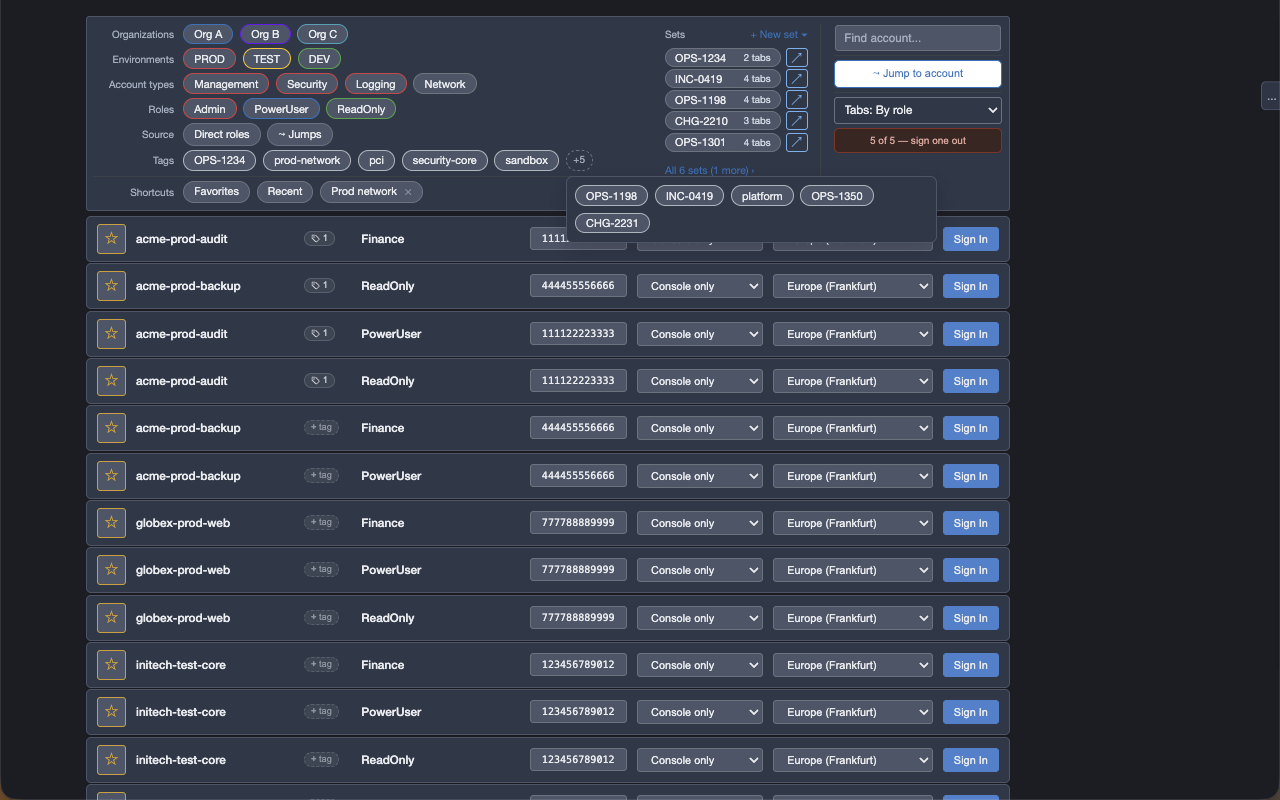
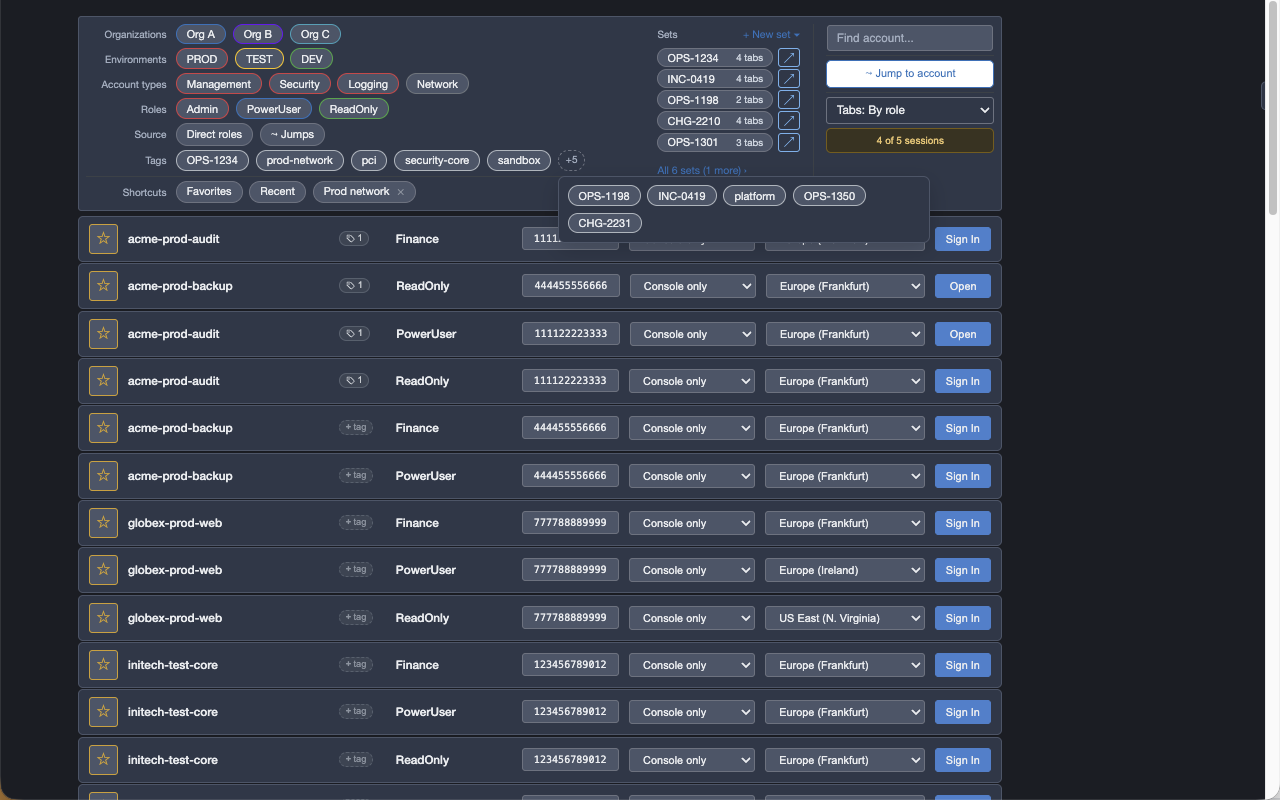
Reshoot store screenshots for 1.8.0
Open on signed-in rows, the Open-set dialog when a set won't fit (replaces
Edit set), the sessions panel with a jump as one row. The staging script
now pins its rewrites against the picker's own refreshes, shows a frozen
copy of the sessions list, and re-checks for leaks right before capture.

diff --git a/store-assets/shots/stage.js b/store-assets/shots/stage.js
@@ -11,7 +11,15 @@
   //   edit      Edit set dialog for the first set
   //   sessions  the Active AWS sessions panel (needs live sessions)
   //   dark      dark theme with the Tags row's +N pop-out open
+  //   room      the Open-set dialog when a set won't fit ("room:N" opens the
+  //             Nth set in the column, default 0) — needs live sessions and a
+  //             set that needs more of them than are free
   var scene = typeof SCENE === "string" ? SCENE : "main";
+  var roomSet = 0;
+  if (/^room(:\d+)?$/.test(scene)) {
+    roomSet = Number((scene.split(":")[1]) || 0);
+    scene = "room";
+  }
 
   var IDS = ["111122223333", "444455556666", "777788889999", "123456789012",
              "222233334444", "555566667777", "888899990000", "333344445555",
@@ -28,15 +36,40 @@
   var SETS = ["OPS-1234", "INC-0419", "OPS-1198", "CHG-2210", "OPS-1301",
               "INC-0442", "CHG-2231", "OPS-1350"];
   var SHORTCUTS = ["Prod network", "PCI accounts", "Sandboxes"];
+  var LABELS = ["audit-review", "INC-0419 triage", "billing-check", "net-debug"];
   var VIA = "via Acme hub · max 1 h";
   var ROLE_POOL = Object.keys(ROLES).map(function (k) { return ROLES[k]; })
     .concat(["Jump", "Hub"]);
 
   // ---- open the scene's UI first, so everything it shows gets rewritten ----
-  document.querySelectorAll('[id$="_modal"]').forEach(function (el) { el.remove(); });
+  // The Open-set dialog is answered, not removed: removing it would leave the
+  // picker waiting on it, and no other set would open until a reload. The
+  // room scene keeps it (the second pass rewrites what the first opened).
+  document.querySelectorAll('[id$="_modal"]').forEach(function (el) {
+    if (el.id === "tm_set_open_modal") {
+      if (scene !== "room") {
+        var cancel = el.querySelector('[data-action="cancel"]');
+        if (cancel) cancel.click(); else el.remove();
+      }
+      return;
+    }
+    el.remove();
+  });
+  document.querySelectorAll("#tm_toasts, .tm_toast").forEach(function (el) { el.remove(); });
   var pop = document.getElementById("tm_sessions_popover");
   if (scene === "dark") document.body.classList.add("tm_theme_dark");
   else document.body.classList.remove("tm_theme_dark");
+
+  // ---- Open / Sign In ----
+  // The extension decides a row's "Open" from the row's VISIBLE account id
+  // and role, so once those are rewritten its next refresh (bringing the
+  // window forward, a console tab changing) would flip every Open back to
+  // Sign In. Record each button's label the first time it is seen with real
+  // text, and pin it on every pass.
+  document.querySelectorAll("#tm_role_list .tm_signin_button").forEach(function (b) {
+    if (!b.dataset.stageLabel) b.dataset.stageLabel = b.textContent;
+    if (b.textContent !== b.dataset.stageLabel) b.textContent = b.dataset.stageLabel;
+  });
 
   // ---- account ids / names / roles ----
   var idMap = {}, nameMap = {}, n = 0;
@@ -57,10 +90,20 @@
     var a = acct(el);
     if (a) el.textContent = idMap[a];
   });
+  // A name that isn't the bare id (an AWS alias, an Account Names entry, a
+  // jump destination's name) also shows in the Open-set dialog and the
+  // sessions panel; remember each one so the text pass below swaps it too.
+  var nameSwap = {};
   document.querySelectorAll(".tm_account_name").forEach(function (el) {
     var a = acct(el);
-    if (a) el.textContent = nameMap[a];
+    if (!a) return;
+    if (!el.dataset.realName) el.dataset.realName = el.textContent.replace(/^\s*⤳\s*/, "").replace(/\s+/g, " ").trim();
+    [el.dataset.realName, el.getAttribute("data-aws-name") || ""].forEach(function (real) {
+      if (real && real.length >= 3 && !/^\d{12}$/.test(real)) nameSwap[real] = nameMap[a];
+    });
+    el.textContent = nameMap[a];
   });
+  var swapKeys = Object.keys(nameSwap).sort(function (x, y) { return y.length - x.length; });
   function mapRole(t) {
     t = (t || "").trim();
     if (ROLES[t]) return ROLES[t];
@@ -141,6 +184,11 @@
     var cp = document.getElementById("tm_chip_pop");
     if (cp) document.dispatchEvent(new KeyboardEvent("keydown", { key: "Escape", bubbles: true }));
   }
+  if (scene === "room" && !document.getElementById("tm_set_open_modal")) {
+    var opens = document.querySelectorAll("#tm_sets_list .tm_set_open, .tm_set_line .tm_set_open");
+    var ob = opens[Math.min(roomSet, opens.length - 1)];
+    if (ob) ob.click();
+  }
   if (scene === "sessions") {
     var pill = document.getElementById("tm_sessions_pill");
     if (pill && !(pop && pop.offsetParent)) pill.click();
@@ -163,6 +211,12 @@
     idleBtn.style.setProperty("display", "inline-block", "important");
   }
 
+  // ---- sessions panel: demo labels ----
+  document.querySelectorAll("#tm_sessions_rows .tm_sess_tr").forEach(function (tr, i) {
+    var lab = tr.children[0];
+    if (lab && lab.textContent.trim() !== "—") lab.textContent = LABELS[i % LABELS.length];
+  });
+
   // ---- generic pass: any real id / CH role / set name left in text or options ----
   // AWS service names must not appear in a store screenshot (flagged on an
   // earlier submission); a saved page on one becomes the plain console.
@@ -175,9 +229,17 @@
     // set named after an account must match before that id is rewritten.
     var t = out.trim();
     if (inSetUI && setMap[t]) return out.replace(t, setMap[t]);
-    var m = inSetUI && t.match(/^(Edit set · |Set: )(.+)$/);
+    var m = inSetUI && t.match(/^(Edit set · |Set: |Open set · )(.+)$/);
     if (m && setMap[m[2]]) return out.replace(m[2], setMap[m[2]]);
+    // Inside a sentence ("<set> needs 3 new sessions …"): only names with a
+    // letter in them, so a set called "111111" can't touch digits elsewhere.
+    if (inSetUI) {
+      Object.keys(setMap).filter(function (real) { return /[A-Za-z]/.test(real) && real.length >= 4; })
+        .sort(function (x, y) { return y.length - x.length; })
+        .forEach(function (real) { out = out.split(real).join(setMap[real]); });
+    }
     realIds.forEach(function (id) { out = out.split(id).join(idMap[id]); });
+    swapKeys.forEach(function (real) { out = out.split(real).join(nameSwap[real]); });
     out = out.replace(/costmanagement\/home[^\s]*/gi, "console/home?region=us-east-1");
     out = out.replace(SERVICE_RE, function (w) { return w[0] === w[0].toUpperCase() ? "Console" : "console"; });
     out = out.replace(/\bCH([A-Z][A-Za-z]+)\b/g, function (_, r) { return mapRole("CH" + r); });
@@ -197,6 +259,13 @@
     var v = scrub(o.textContent, false);
     if (v !== o.textContent) o.textContent = v;
   });
+  // A row whose remembered service got scrubbed would read a bare "Console";
+  // show it on "Console only" instead (display only: no change event, so
+  // nothing is saved).
+  document.querySelectorAll(".tm_service_dropdown").forEach(function (sel) {
+    var o = sel.options[sel.selectedIndex];
+    if (o && o.textContent.trim() === "Console") sel.selectedIndex = 0;
+  });
   document.querySelectorAll(".tm_setm_row[data-set-id]").forEach(function (r) {
     var nm = r.querySelector(".tm_setm_name");
     var demo = setById[r.getAttribute("data-set-id")];
@@ -205,6 +274,25 @@
   document.querySelectorAll(".tm_set_name_input, .tm_set_group_input").forEach(function (el) {
     el.value = mapSet(el.value);
   });
+
+  // The sessions panel repaints itself (a console tab changing, a window
+  // focus) — straight back to real data. Show a static copy of the rewritten
+  // rows for the shot and hide the live list behind it; made once, so a later
+  // pass doesn't copy a repaint.
+  if (scene === "sessions") {
+    var live = document.getElementById("tm_sessions_rows");
+    if (live && !document.getElementById("tm_sessions_rows_shot") && live.querySelector(".tm_sess_tr")) {
+      var copy = live.cloneNode(true);
+      copy.id = "tm_sessions_rows_shot";
+      live.parentNode.insertBefore(copy, live);
+      live.style.setProperty("display", "none", "important");
+    }
+  } else {
+    var oldCopy = document.getElementById("tm_sessions_rows_shot");
+    if (oldCopy) oldCopy.remove();
+    var liveRows = document.getElementById("tm_sessions_rows");
+    if (liveRows) liveRows.style.removeProperty("display");
+  }
 
   // ---- framing ----
   var si = document.getElementById("tm_search_input");
@@ -253,7 +341,8 @@
     sets: "#tm_sets_manage_modal > *",
     edit: "#tm_set_edit_modal > *",
     sessions: "#tm_sessions_popover",
-    dark: "#tm_chip_pop"
+    dark: "#tm_chip_pop",
+    room: "#tm_set_open_modal > *"
   }[scene];
   var fe = focusEl ? document.querySelector(focusEl) : null;
   var vw = window.innerWidth, vh = window.innerHeight;
@@ -291,6 +380,12 @@
       if (v && TAGS.indexOf(v) === -1 && !/^(Direct roles|⤳ Jumps)$/.test(v)) leaks.push("tag not in the demo set: " + v);
     });
   if (/\bCH[A-Z][a-z]/.test(txt)) leaks.push("CH role name still visible");
+  (txt.match(/\b\d{12}\b/g) || []).forEach(function (num) {
+    if (IDS.indexOf(num) === -1) leaks.push("12-digit number not in the demo set: " + num.slice(0, 4) + "…");
+  });
+  swapKeys.forEach(function (real) {
+    if (txt.indexOf(real) !== -1) leaks.push("real account name still visible");
+  });
   if (/\((?:IAM|EC2|S3|Billing)[,)]/.test(txt)) leaks.push("AWS service list in visible text");
   var modalTxt = [].map.call(document.querySelectorAll('[id$="_modal"], #tm_sessions_popover'), function (el) { return el.innerText; }).join(" ");
   var svc = modalTxt.match(SERVICE_RE);

diff --git a/STORE_LISTING.md b/STORE_LISTING.md
@@ -336,10 +336,10 @@ package).
 | Field | Spec | File | Shows |
 |---|---|---|---|
 | Store icon | 128 × 128 PNG | ✅ `icons/icon128.png` | — |
-| Screenshot 1 | 1280 × 800 | `store-assets/screenshot-1-main.png` | Role picker — one-line filter rows with +N, the Sets column beside them |
+| Screenshot 1 | 1280 × 800 | `store-assets/screenshot-1-main.png` | Role picker — filter rows, the Sets column, Open on roles already signed in |
 | Screenshot 2 | 1280 × 800 | `store-assets/screenshot-2-sets.png` | Launch Sets panel — sets in order, archive, open |
-| Screenshot 3 | 1280 × 800 | `store-assets/screenshot-3-edit.png` | Edit a set — tabs per role with landing service and region |
-| Screenshot 4 | 1280 × 800 | `store-assets/screenshot-4-sessions.png` | Active AWS sessions — sign out one, the idle ones, or all |
+| Screenshot 3 | 1280 × 800 | `store-assets/screenshot-3-room.png` | A set that won't fit — sign sessions out from the list, Open waits for room |
+| Screenshot 4 | 1280 × 800 | `store-assets/screenshot-4-sessions.png` | Active AWS sessions — a jump as one row; sign out one, the idle ones, or all |
 | Screenshot 5 | 1280 × 800 | `store-assets/screenshot-5-dark.png` | Dark theme — a filter row's +N pop-out |
 | Small promo tile (optional) | 440 × 280 PNG | ✅ `store-assets/promo-small-440x280.png` | Icon + wordmark over the filter rows |
 | Marquee promo tile (optional) | 1400 × 560 PNG | ✅ `store-assets/promo-marquee-1400x560.png` | Wordmark + tagline beside the role picker |

diff --git a/README.md b/README.md
@@ -15,11 +15,11 @@ firms, multi-account orgs, anyone with a Control Tower / Landing Zone).
 
 | The role picker | Launch Sets |
 |---|---|
-| <img src="store-assets/screenshot-1-main.png" alt="Role picker with one-line filter rows, a +N chip and the Sets column"> | <img src="store-assets/screenshot-2-sets.png" alt="Launch Sets panel listing sets with Show, Edit, Archive, Delete and Open"> |
+| <img src="store-assets/screenshot-1-main.png" alt="Role picker with one-line filter rows, the Sets column, and Open on roles already signed in"> | <img src="store-assets/screenshot-2-sets.png" alt="Launch Sets panel listing sets with Show, Edit, Archive, Delete and Open"> |
 
-| Editing a set | Active AWS sessions |
+| A set that won't fit | Active AWS sessions |
 |---|---|
-| <img src="store-assets/screenshot-3-edit.png" alt="Edit set dialog: tabs per role with landing service and region"> | <img src="store-assets/screenshot-4-sessions.png" alt="Sessions panel with Sign out idle and Sign out all sessions"> |
+| <img src="store-assets/screenshot-3-room.png" alt="Open-set dialog listing your sessions to sign out, Open off until the set fits"> | <img src="store-assets/screenshot-4-sessions.png" alt="Sessions panel with a jump as one row, Sign out idle and Sign out all sessions"> |
 
 ## Quick start
 

diff --git a/store-assets/shots/README.md b/store-assets/shots/README.md
@@ -4,7 +4,8 @@ Produces a 1280×800 Chrome Web Store screenshot from the live role picker.
 
     ./shoot.sh <chrome-window-id> out.png [scene]
 
-`scene` is `main` (default), `sets`, `edit`, `sessions` or `dark`. The
+`scene` is `main` (default), `sets`, `edit`, `sessions`, `dark` or `room`
+(`room:N` opens the Nth set in the Sets column into its "won't fit" dialog). The
 `sessions` scene needs live sessions: open a Launch Set or two first (within
 five minutes of signing in), and close one set's tabs for an idle row.
 
